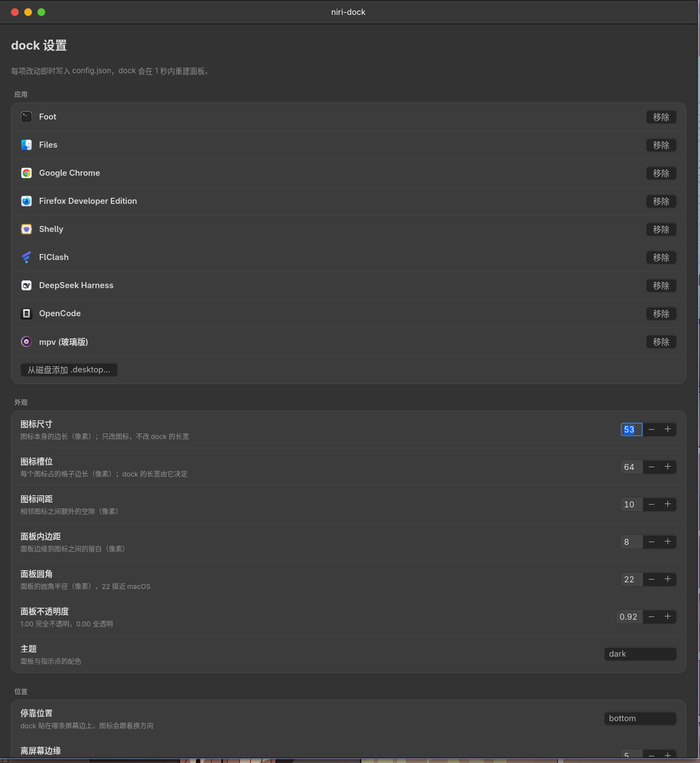
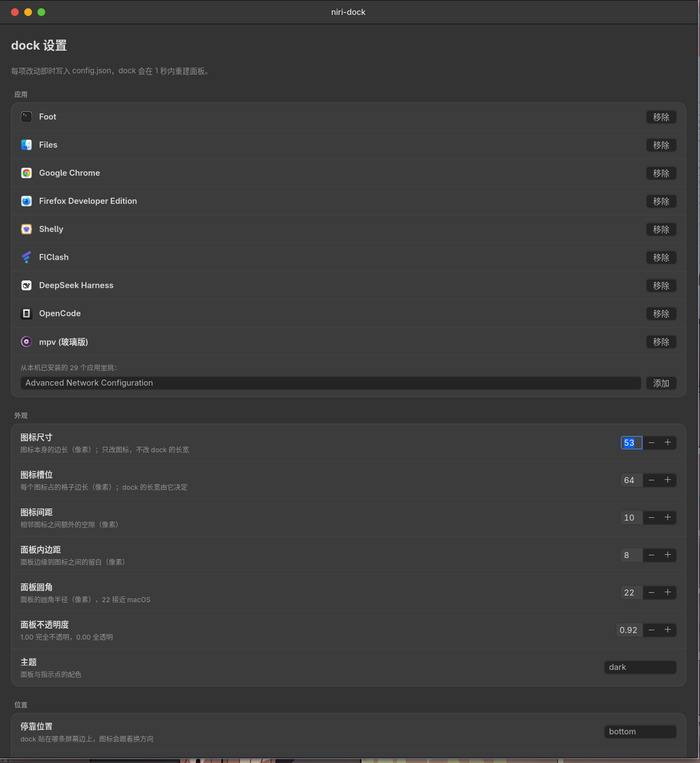
Pick apps from a detected list instead of a file chooser
The settings window now scans XDG application dirs and offers a searchable
dropdown of entries that are not on the dock yet:

- deduplicated by desktop id, user directories win over system ones
- NoDisplay=true and Hidden=true entries are skipped
- entries whose TryExec binary is missing are skipped
- the list refreshes after adding or removing an app

diff --git a/src/settings.rs b/src/settings.rs
@@ -5,7 +5,7 @@ use gtk4 as gtk;
 use gtk::prelude::*;
 use std::rc::Rc;
 
-use crate::config::{adopt_desktop_file, load_config, save_config, save_pins, Config};
+use crate::config::{load_config, save_config, save_pins, Config};
 
 const CSS: &str = r#"
 window { background-color: #1c1c20; }
@@ -34,8 +34,10 @@ window { background-color: #1c1c20; }
 type Refresh = Rc<std::cell::RefCell<Option<Rc<dyn Fn()>>>>;
 
 /// 「应用」分组：列出 dock 上的应用，可以移除，也可以从磁盘挑 .desktop 加进来
-fn apps_section(window: &gtk::ApplicationWindow) -> gtk::Box {
+fn apps_section() -> gtk::Box {
     let cell: Refresh = Rc::new(std::cell::RefCell::new(None));
+    let candidates: Rc<std::cell::RefCell<Vec<String>>> =
+        Rc::new(std::cell::RefCell::new(Vec::new()));
     let list = gtk::Box::new(gtk::Orientation::Vertical, 0);
     list.add_css_class("boxed-list");
 
@@ -50,7 +52,7 @@ fn apps_section(window: &gtk::ApplicationWindow) -> gtk::Box {
     {
         let cell2 = cell.clone();
         let list2 = list.clone();
-        let win = window.clone();
+        let candidates = candidates.clone();
         *cell.borrow_mut() = Some(Rc::new(move || {
             while let Some(child) = list2.first_child() {
                 list2.remove(&child);
@@ -105,41 +107,58 @@ fn apps_section(window: &gtk::ApplicationWindow) -> gtk::Box {
                 list2.append(&gtk::Separator::new(gtk::Orientation::Horizontal));
             }
 
-            let add = gtk::Button::with_label("从磁盘添加 .desktop…");
-            add.set_halign(gtk::Align::Start);
+            // 自动探测本机已安装的 .desktop：去重、隐藏的排除、按名字排序
+            let available = crate::desktop::available_entries(&cfg.pins);
+            *candidates.borrow_mut() = available.iter().map(|e| e.id.clone()).collect();
+            let names: Vec<&str> = available.iter().map(|e| e.name.as_str()).collect();
+            let dropdown = gtk::DropDown::from_strings(&names);
+            dropdown.set_hexpand(true);
+            dropdown.set_enable_search(true);
+            if available.is_empty() {
+                dropdown.set_sensitive(false);
+            }
+
+            let add = gtk::Button::with_label("添加");
+            add.set_valign(gtk::Align::Center);
+            add.set_sensitive(!available.is_empty());
             {
                 let cell3 = cell2.clone();
-                let win = win.clone();
+                let candidates2 = candidates.clone();
+                let dropdown2 = dropdown.clone();
                 add.connect_clicked(move |_| {
-                    let dialog = gtk::FileDialog::new();
-                    dialog.set_title("选择要添加到 dock 的应用");
-                    let filter = gtk::FileFilter::new();
-                    filter.set_name(Some("应用入口 (*.desktop)"));
-                    filter.add_pattern("*.desktop");
-                    let filters = gtk::gio::ListStore::new::<gtk::FileFilter>();
-                    filters.append(&filter);
-                    dialog.set_filters(Some(&filters));
-                    dialog.set_default_filter(Some(&filter));
-                    dialog.set_initial_folder(Some(&gtk::gio::File::for_path(
-                        "/usr/share/applications",
-                    )));
-                    let cell4 = cell3.clone();
-                    dialog.open(Some(&win), gtk::gio::Cancellable::NONE, move |res| {
-                        if let Ok(file) = res {
-                            if let Some(path) = file.path() {
-                                if adopt_desktop_file(&path).is_some() {
-                                    if let Some(f) = cell4.borrow().as_ref() {
-                                        f();
-                                    }
-                                }
-                            }
-                        }
-                    });
+                    let idx = dropdown2.selected() as usize;
+                    let Some(id) = candidates2.borrow().get(idx).cloned() else {
+                        return;
+                    };
+                    let mut cfg = load_config();
+                    if cfg.pins.iter().any(|p| p == &id) {
+                        return;
+                    }
+                    cfg.pins.push(id);
+                    save_pins(&cfg.pins);
+                    if let Some(f) = cell3.borrow().as_ref() {
+                        f();
+                    }
                 });
             }
-            let add_row = gtk::Box::new(gtk::Orientation::Horizontal, 12);
+
+            let hint = if available.is_empty() {
+                "没有可添加的应用（全部已添加，或被 NoDisplay / Hidden / TryExec 过滤）".to_string()
+            } else {
+                format!("从本机已安装的 {} 个应用里挑：", available.len())
+            };
+            let label = gtk::Label::new(Some(&hint));
+            label.set_xalign(0.0);
+            label.add_css_class("hint");
+
+            let picker = gtk::Box::new(gtk::Orientation::Horizontal, 8);
+            picker.append(&dropdown);
+            picker.append(&add);
+
+            let add_row = gtk::Box::new(gtk::Orientation::Vertical, 6);
             add_row.add_css_class("row");
-            add_row.append(&add);
+            add_row.append(&label);
+            add_row.append(&picker);
             list2.append(&add_row);
         }));
     }
@@ -519,7 +538,7 @@ pub fn run() -> glib::ExitCode {
         body.set_margin_bottom(28);
         body.set_margin_start(20);
         body.set_margin_end(20);
-        let apps = apps_section(&window);
+        let apps = apps_section();
         body.append(&hero);
         body.append(&hero_sub);
         body.append(&apps);

diff --git a/src/desktop.rs b/src/desktop.rs
@@ -13,6 +13,12 @@ pub(crate) struct AppEntry {
     pub(crate) exec: String,
     pub(crate) icon: String,
     pub(crate) wmclass: Option<String>,
+    /// Hidden=true：应用已被用户删除（或来自旧版本），彻底不可用
+    pub(crate) hidden: bool,
+    /// NoDisplay=true：不该出现在菜单/列表里，但仍然可以启动
+    pub(crate) no_display: bool,
+    /// TryExec：这个程序不存在时，条目其实点了也起不来
+    pub(crate) try_exec: Option<String>,
 }
 
 pub(crate) fn data_dirs() -> Vec<PathBuf> {
@@ -55,6 +61,9 @@ pub(crate) fn parse_desktop(id: &str, path: &Path) -> Option<AppEntry> {
             "Exec" => entry.exec = v.to_string(),
             "Icon" => entry.icon = v.to_string(),
             "StartupWMClass" => entry.wmclass = Some(v.to_string()),
+            "Hidden" => entry.hidden = v.trim().eq_ignore_ascii_case("true"),
+            "NoDisplay" => entry.no_display = v.trim().eq_ignore_ascii_case("true"),
+            "TryExec" => entry.try_exec = Some(v.to_string()),
             _ => {}
         }
     }
@@ -65,6 +74,40 @@ pub(crate) fn parse_desktop(id: &str, path: &Path) -> Option<AppEntry> {
         entry.name = id.to_string();
     }
     Some(entry)
+}
+
+fn which(cmd: &str) -> bool {
+    let p = Path::new(cmd);
+    if p.is_absolute() {
+        return p.is_file();
+    }
+    env::var("PATH")
+        .unwrap_or_default()
+        .split(':')
+        .filter(|d| !d.is_empty())
+        .any(|d| Path::new(d).join(cmd).is_file())
+}
+
+/// 能不能出现在「添加应用」列表里
+pub(crate) fn is_offered(entry: &AppEntry) -> bool {
+    if entry.hidden || entry.no_display {
+        return false;
+    }
+    match entry.try_exec.as_deref() {
+        Some(t) if !t.trim().is_empty() => which(t.trim()),
+        _ => true,
+    }
+}
+
+/// 还没加到 dock 上、可以挑来添加的应用，按名字排序
+pub(crate) fn available_entries(pins: &[String]) -> Vec<AppEntry> {
+    let mut out: Vec<AppEntry> = load_entries()
+        .into_values()
+        .filter(|e| !pins.iter().any(|p| p == &e.id))
+        .filter(is_offered)
+        .collect();
+    out.sort_by(|a, b| a.name.to_lowercase().cmp(&b.name.to_lowercase()));
+    out
 }
 
 pub(crate) fn load_entries() -> HashMap<String, AppEntry> {
@@ -160,6 +203,43 @@ pub(crate) fn spawn_exec(exec: &str) {
 mod tests {
     use super::*;
 
+    static ENV: std::sync::Mutex<()> = std::sync::Mutex::new(());
+
+    fn write_desktop(path: &Path, body: &str) {
+        std::fs::create_dir_all(path.parent().unwrap()).unwrap();
+        std::fs::write(path, body).unwrap();
+    }
+
+    #[test]
+    fn available_entries_dedupe_and_filter() {
+        let _guard = ENV.lock().unwrap_or_else(|e| e.into_inner());
+        let root = std::env::temp_dir().join(format!("niri-dock-avail-{}", std::process::id()));
+        let _ = std::fs::remove_dir_all(&root);
+        let user = root.join("a/applications");
+        let system = root.join("b/applications");
+        // 同名 id：用户目录优先
+        write_desktop(&user.join("dup.desktop"), "[Desktop Entry]\nName=From User\nExec=dup %U\n");
+        write_desktop(&system.join("dup.desktop"), "[Desktop Entry]\nName=From System\nExec=dup %U\n");
+        write_desktop(&user.join("hidden.desktop"), "[Desktop Entry]\nName=Ghost\nExec=ghost\nHidden=true\n");
+        write_desktop(&user.join("silent.desktop"), "[Desktop Entry]\nName=Silent\nExec=silent\nNoDisplay=true\n");
+        write_desktop(&user.join("broken.desktop"), "[Desktop Entry]\nName=Broken\nExec=broken\nTryExec=nope-does-not-exist-xyz\n");
+        write_desktop(&user.join("good.desktop"), "[Desktop Entry]\nName=Good\nExec=good\n");
+
+        std::env::set_var("XDG_DATA_HOME", root.join("a"));
+        std::env::set_var("XDG_DATA_DIRS", root.join("b"));
+        let ids: Vec<String> = available_entries(&[]).into_iter().map(|e| e.id).collect();
+        assert_eq!(ids, vec!["dup".to_string(), "good".to_string()]);
+        // 已在 dock 上的不会再出现在候选里
+        let ids: Vec<String> = available_entries(&["dup".to_string()])
+            .into_iter()
+            .map(|e| e.id)
+            .collect();
+        assert_eq!(ids, vec!["good".to_string()]);
+        std::env::remove_var("XDG_DATA_HOME");
+        std::env::remove_var("XDG_DATA_DIRS");
+        let _ = std::fs::remove_dir_all(&root);
+    }
+
     fn entry(id: &str, wmclass: Option<&str>, exec: &str) -> AppEntry {
         AppEntry {
             id: id.to_string(),
@@ -167,6 +247,7 @@ mod tests {
             icon: "icon".into(),
             exec: exec.to_string(),
             wmclass: wmclass.map(|s| s.to_string()),
+            ..Default::default()
         }
     }
 
@@ -177,6 +258,24 @@ mod tests {
         assert!(app_matches(&keys, "org.gnome.Nautilus"));
         assert!(app_matches(&keys, "nautilus"));
         assert!(!app_matches(&keys, "firefox"));
+    }
+
+    #[test]
+    fn hidden_and_nodisplay_are_not_offered() {
+        let mut e = entry("thing", None, "thing");
+        assert!(is_offered(&e));
+        e.no_display = true;
+        assert!(!is_offered(&e));
+        e.no_display = false;
+        e.hidden = true;
+        assert!(!is_offered(&e));
+    }
+
+    #[test]
+    fn missing_try_exec_is_not_offered() {
+        let mut e = entry("ghost", None, "ghost");
+        e.try_exec = Some("definitely-not-a-real-binary-xyz".into());
+        assert!(!is_offered(&e));
     }
 
     #[test]

diff --git a/src/config.rs b/src/config.rs
@@ -145,33 +145,6 @@ pub(crate) fn save_pins(pins: &[String]) {
     }
 }
 
-/// 把用户挑的 .desktop 加进 pins；不在标准目录时复制到 ~/.local/share/applications
-pub(crate) fn adopt_desktop_file(path: &std::path::Path) -> Option<String> {
-    let name = path.file_name()?.to_str()?.to_string();
-    if !name.ends_with(".desktop") {
-        return None;
-    }
-    let id = name.trim_end_matches(".desktop").to_string();
-    let home = std::env::var_os("HOME").map(PathBuf::from)?;
-    let local = home.join(".local/share/applications");
-    let _ = std::fs::create_dir_all(&local);
-    let dest = local.join(&name);
-    if path != dest {
-        let _ = std::fs::copy(path, &dest);
-        let _ = std::fs::set_permissions(
-            &dest,
-            std::os::unix::fs::PermissionsExt::from_mode(0o644),
-        );
-    }
-    let cfg = load_config();
-    if !cfg.pins.iter().any(|p| p == &id) {
-        let mut pins = cfg.pins.clone();
-        pins.push(id.clone());
-        save_pins(&pins);
-    }
-    Some(id)
-}
-
 pub(crate) fn load_config() -> Config {
     let dir = config_dir();
     let path = dir.join("config.json");

diff --git a/README.md b/README.md
@@ -117,9 +117,13 @@ niri-dock edit
   右半边插到它后面，松开立即写回配置
 - **✓**：退出编辑模式
 
-增删应用在设置窗口的「应用」一栏做：点「移除」把应用移出 dock；点
-「从磁盘添加 .desktop…」挑一个 `.desktop`，不在标准目录里的会先复制到
-`~/.local/share/applications/` 再添加到列表。
+增删应用都在设置窗口的「应用」一栏：
+
+- 点「移除」把应用移出 dock
+- 添加时不用手动挑文件：窗口会自动扫描本机的 `.desktop`（`XDG_DATA_HOME`、
+  `XDG_DATA_DIRS` 里的 `applications/`），列出还没加进来的应用，选中点「添加」即可
+- 列表已按 desktop id 去重（用户目录优先），并过滤掉 `NoDisplay=true`、
+  `Hidden=true` 以及 `TryExec` 指向的程序不存在的条目
 
 改动只动 `config.json` 里的 `pins` 数组，其他配置项和未知字段保持不变。
 
